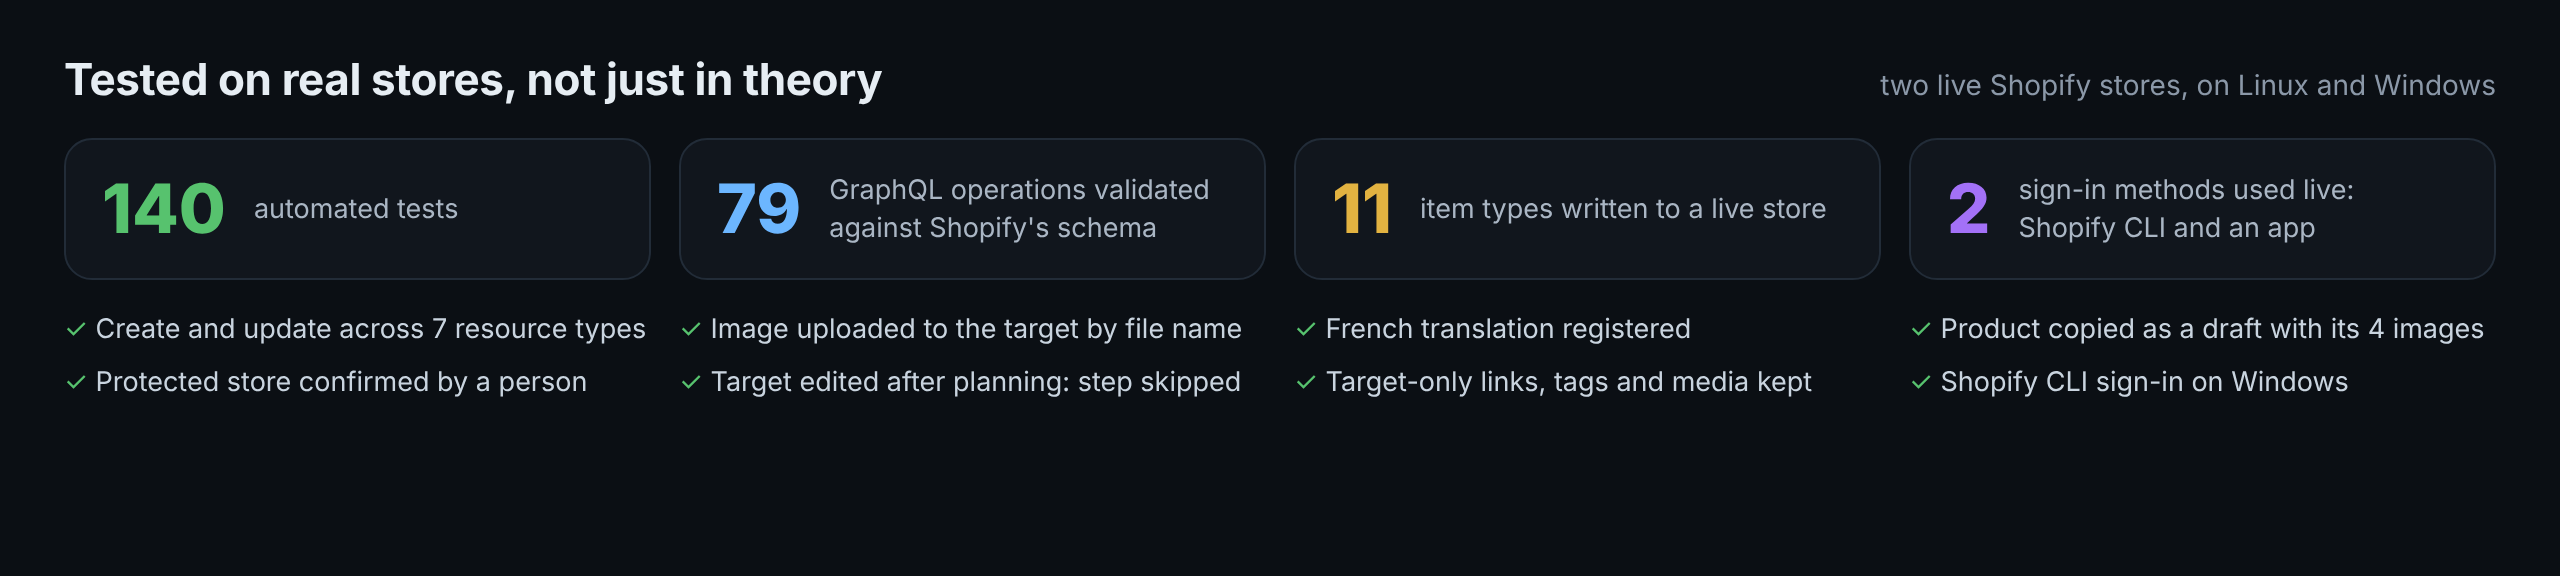
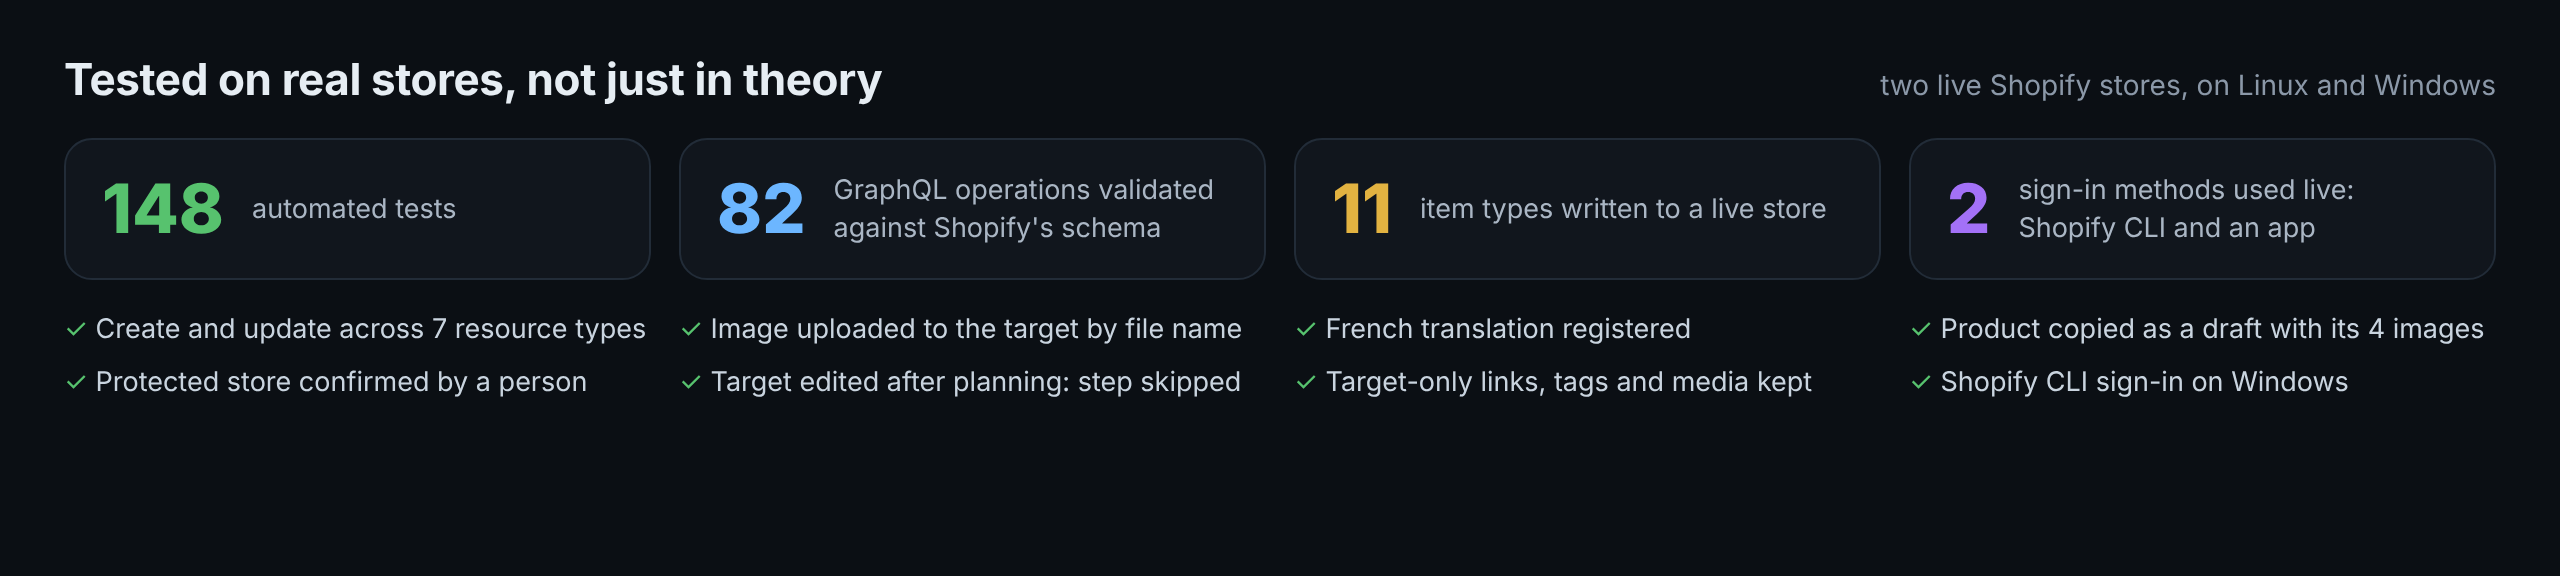
0.10.0: background apply with apply_status, bulk product updates, images created once

Changed region(s): [[0.2812, 0.3125, 0.5, 0.4375], [0.0625, 0.3438, 0.1875, 0.375]]

diff --git a/README.md b/README.md
@@ -85,7 +85,8 @@ Thousands of products are fine. Above 250 products the tool switches to Shopify 
 </p>
 
 - **Reads**: both stores are listed by handle first, and only the products both have are read in full. A full read of a big catalog is one bulk export.
-- **Writes**: new products go in bulk with their variants, and their images are taken straight from the source's URLs. Metafield values go 25 per call. A big write is split into 5 operations running at once.
+- **Writes**: new and changed products go in bulk with their variants. Missing images are created first, once each and all at the same time, so no product waits on a download and a shared image isn't copied per product. Metafield values go 25 per call. A big write is split into 5 operations running at once.
+- **Live status**: a big apply runs in the background. `apply_status` shows what is written, failed and left per resource type, and the time remaining. Reports list 50 items per section, with counts of the rest.
 - **Nothing to set up**: it kicks in on its own. `SYNC_BULK_THRESHOLD` and `SYNC_BULK_PARALLEL` tune it, and if a store won't run bulk writes the tool says so and writes one by one.
 
 ## Use cases
@@ -297,8 +298,9 @@ You can also pass the whole config as JSON in `SHOPIFY_STORES`, or point `SHOPIF
 | `SYNC_CLI_TIMEOUT_MS` | `120000` | How long one Shopify CLI call may take before it is stopped |
 | `SYNC_MAX_ITEMS` | `50000` | Longest list read from a store; a longer one is an error, never a silent cut |
 | `SYNC_WRITE_CONCURRENCY` | `4` | How many independent writes run at once |
-| `SYNC_BULK_THRESHOLD` | `250` | Above this many products, reads and new products (and metafield values) go through one Shopify bulk operation instead of single requests |
+| `SYNC_BULK_THRESHOLD` | `250` | Above this many products, reads and product writes (and metafield values) go through one Shopify bulk operation instead of single requests |
 | `SYNC_BULK_TIMEOUT_MS` | `1800000` | How long to wait for a bulk operation to finish |
+| `SYNC_BACKGROUND_STEPS` | `50` | Plans with more steps than this are applied in the background; follow them with `apply_status` |
 | `SYNC_BULK_PARALLEL` | `5` | How many bulk write operations run at once on one store (a big write is split into parts) |
 | `SYNC_CLI_CONCURRENCY` | `4` | With the Shopify CLI sign-in, how many `shopify` processes run at once per store (up to 16) |
 | `SYNC_AUDIT_LOG` | `~/.shopify-store-sync/audit.log` | Where every write is logged |
@@ -394,18 +396,19 @@ What `diff_stores` reports, field by field (real output):
 </p>
 
 <details>
-<summary><b>All 10 tools</b></summary>
+<summary><b>All 11 tools</b></summary>
 
 | Tool | Writes? | What it does |
 |---|---|---|
-| `list_stores` | no | Configured stores and their write permissions. Secrets are never returned. |
+| `list_stores` | no | Configured stores and their write permissions, and the server's version. Secrets are never returned. |
 | `list_resource_types` | no | What can be synced and how it's keyed. |
 | `snapshot_store` | no | Read one store's configuration in portable form. |
 | `compare_item` | no | One item side by side: each field that differs, and whether what it points at exists in the target. Reads only that item where possible. |
 | `diff_stores` | no | Only-in-source, changed (field by field, and entry by entry inside JSON values), only-in-target. `format: "markdown"` returns a report to paste into a ticket. |
 | `plan_sync` | no | Dry-run plan: creates, updates, conflicts, missing references. Returns a `plan_id`. |
 | `get_plan` | no | Show a plan, or list recent ones. `format: "markdown"` returns it as a report to share before applying. |
-| `apply_plan` | **yes** | Execute a plan, with every safety check above. For a protected store your client asks you to confirm. |
+| `apply_plan` | **yes** | Execute a plan, with every safety check above. For a protected store your client asks you to confirm. A plan of more than 50 steps runs in the background and this returns at once. |
+| `apply_status` | no | How far an apply has got: written, failed and left per resource type, phase, time so far and time remaining, latest failures. |
 | `export_snapshot` | local files only | Write a store's configuration to a folder for git ([config as code](#config-as-code)). |
 | `diff_themes` | no | Compare theme templates and settings between two stores ([theme settings](#theme-settings-diff)). |
 
@@ -518,7 +521,7 @@ Two references followed from the source store to the target, as the sample sync 
 ## Tested on real stores
 
 <p align="center">
-  <img src="docs/images/tested.png" alt="140 automated tests, 79 GraphQL operations validated, 11 item types written live, 2 sign-in methods used live" width="100%">
+  <img src="docs/images/tested.png" alt="148 automated tests, 82 GraphQL operations validated, 11 item types written live, 2 sign-in methods used live" width="100%">
 </p>
 
 <details>
@@ -594,7 +597,7 @@ Behaviours of the live API found this way are covered by tests: `nodes` returns 
 - [x] Published on npm, runs with `npx`
 
 *Quality*
-- [x] 140 automated tests against an in-memory Shopify, plus MCP protocol tests
+- [x] 148 automated tests against an in-memory Shopify, plus MCP protocol tests
 - [x] Every GraphQL operation validated against Shopify's schema for 2026-04, 2026-10 and 2027-01
 - [x] Tested live between two stores on Linux and Windows, Shopify CLI 4.9 and 5
 - [x] Parallel reads and writes (metaobject types read and entries written in parallel; the check before writing re-reads only what the plan touches) with throttle-aware retries; clear errors for missing installs, expired sign-ins and auto-managed policies

diff --git a/CHANGELOG.md b/CHANGELOG.md
@@ -1,5 +1,16 @@
 # Changelog
 
+## 0.10.0
+
+- **A big apply no longer blocks.** A plan of more than 50 steps (`SYNC_BACKGROUND_STEPS`) is applied in the background and `apply_plan` returns at once, so a client's time limit on one call no longer cuts it off. Pass `wait: true` to wait as before
+- **`apply_status`**: created, updated, skipped, failed and left per resource type, the current phase, how far Shopify has got inside a bulk operation, time so far and time remaining, and the latest failures
+- **Product updates in bulk** above 250 products, still keeping the variants, tags and media only the target has
+- **Images created once**: before a bulk product write, missing images are created all at the same time, once each. An image several products share is no longer copied per product, and no product write waits on a download
+- Bulk writes start the next part as soon as one finishes when the store runs fewer at once, a failed part no longer loses the others, and results reach the audit log part by part
+- Short reports: Markdown diffs and plans list 50 items per section over MCP, with counts of the rest, and plans count creates, updates and conflicts per resource type
+- Decimal values written two ways (`0.40` and `0.4`) in decimal metafields and prices are no longer differences
+- `list_stores` gives the server's version; `compare_item` reports use a section heading
+
 ## 0.9.2
 
 - Metafield values leave out Shopify's own copies of built-in fields: the SEO title and description (`global.title_tag`, `global.description_tag`) and a variant's HS code (`global.harmonized_system_code`). They travel with the product or collection itself; on a 4,000-product catalog they were 54,000 of 144,000 planned writes
